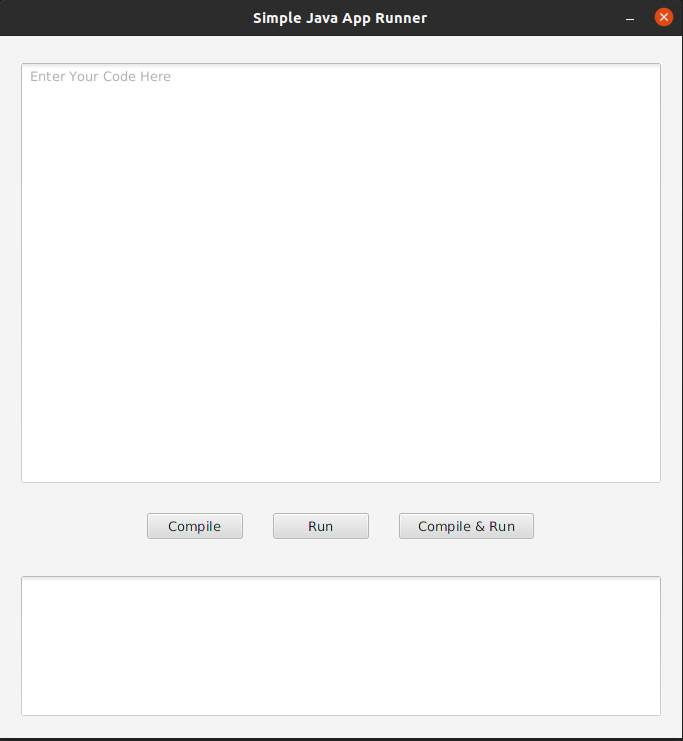
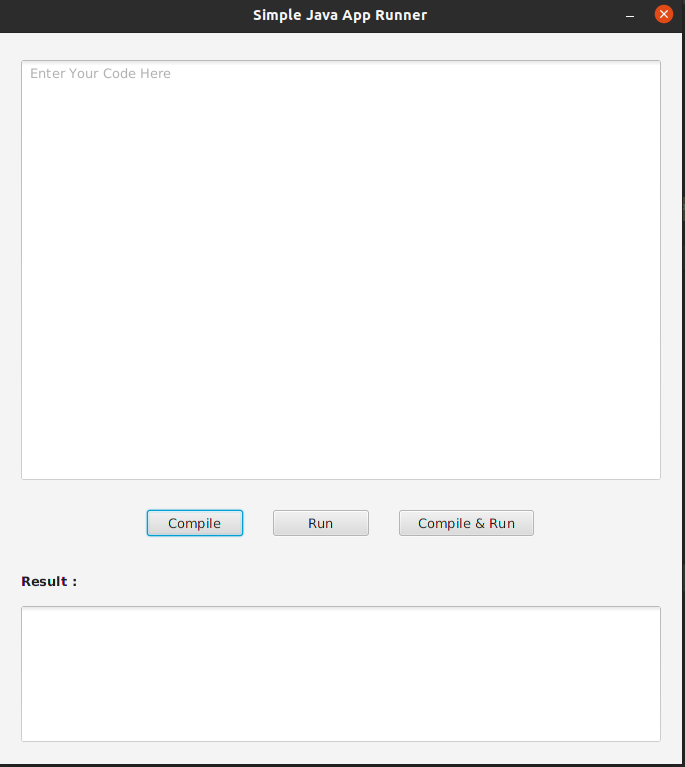
Set routes and make some small changes to class files and README.md file

diff --git a/src/controller/MainFormController.java b/src/controller/MainFormController.java
@@ -16,10 +16,10 @@ public class MainFormController {
     private boolean compiled = false;
     String tempDir = System.getProperty("java.io.tmpdir");
 
-    public void initialize () {
+    public void initialize() {
         txtInput.textProperty().addListener((observable, oldValue, newValue) -> {
-            if (oldValue!=newValue) {
-                compiled=false;
+            if (oldValue != newValue) {
+                compiled = false;
             }
         });
     }
@@ -63,8 +63,6 @@ public class MainFormController {
         } catch (IOException | InterruptedException e) {
             new Alert(Alert.AlertType.ERROR, "Something went wrong, Try again");
             return false;
-        } finally {
-            System.out.println("ncdkj");
         }
     }
 
@@ -81,14 +79,13 @@ public class MainFormController {
             try {
                 Process java = Runtime.getRuntime().exec("java -cp " + tempDir + " Demo");
                 int exitCode = java.waitFor();
-                if (exitCode==0) {
+                if (exitCode == 0) {
                     readStream(java.getInputStream());
                 } else {
                     readStream(java.getErrorStream());
                 }
             } catch (IOException | InterruptedException e) {
                 e.printStackTrace();
-                System.out.println("hdbs");
             } finally {
                 clearMemory(Paths.get(System.getProperty("java.io.tmpdir"), "DEP8IDEDemo.java"));
                 clearMemory(Paths.get(System.getProperty("java.io.tmpdir"), "Demo.java"));

diff --git a/src/controller/HomePageController.java b/src/controller/HomePageController.java
@@ -1,11 +1,26 @@
 package controller;
 
 import javafx.event.ActionEvent;
+import javafx.fxml.FXMLLoader;
+import javafx.scene.Scene;
 import javafx.scene.control.Button;
+import javafx.scene.layout.AnchorPane;
+import javafx.stage.Stage;
+
+import java.io.IOException;
 
 public class HomePageController {
     public Button btnStart;
 
-    public void btnStartOnAction(ActionEvent actionEvent) {
+    public void btnStartOnAction(ActionEvent actionEvent) throws IOException {
+        AnchorPane root = FXMLLoader.load(this.getClass().getResource("/view/MainForm.fxml"));
+        Stage primaryStage = new Stage();
+        Scene homeScene = new Scene(root);
+        primaryStage.setScene(homeScene);
+        primaryStage.setTitle("Simple Java App Runner");
+        primaryStage.setResizable(false);
+        primaryStage.centerOnScreen();
+        primaryStage.show();
+        ((Stage)(btnStart.getScene().getWindow())).close();
     }
 }

diff --git a/src/AppInitializer.java b/src/AppInitializer.java
@@ -14,10 +14,10 @@ public class AppInitializer extends Application {
 
     @Override
     public void start(Stage primaryStage) throws IOException {
-        AnchorPane root = FXMLLoader.load(this.getClass().getResource("/view/MainForm.fxml"));
+        AnchorPane root = FXMLLoader.load(this.getClass().getResource("/view/HomePage.fxml"));
         Scene homeScene = new Scene(root);
         primaryStage.setScene(homeScene);
-        primaryStage.setTitle("Simple Java App Runner");
+        primaryStage.setTitle("Simple Java App Runner : Home");
         primaryStage.setResizable(false);
         primaryStage.centerOnScreen();
         primaryStage.show();
